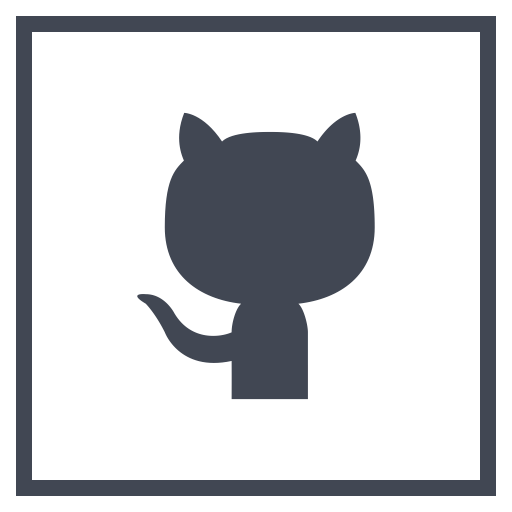
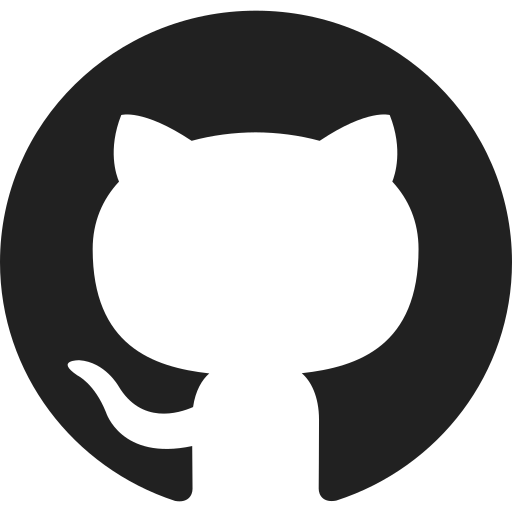
skills page added and modified

diff --git a/skills.html b/skills.html
@@ -1,0 +1,78 @@
+<!DOCTYPE html>
+<html lang="en">
+<head>
+    <meta charset="UTF-8">
+    <meta name="author" content="Babalwa Mbolekwa">
+    <meta name="viewport" content="width=device-width, initial-scale=1, maximum-scale=1, user-scalable=0"/>
+    <link rel="icon" href="IMAGES/b.png" type="image/ico">
+    <link rel="stylesheet" href="CSS/main.css">
+    <title>My Skills</title>
+</head>
+<body >
+    <header>
+        <div class="menu-btn">
+            <div class="btn-line"></div>
+            <div class="btn-line"></div>
+            <div class="btn-line"></div>
+        </div>
+        <nav class="menu">
+            <div class="menu-branding">
+                <div class="portrait">
+                    
+                </div>
+            </div>
+            <ul class="menu-nav">
+                <li class="nav-item">
+                    <a href="index.html" class="nav-link">Home</a>
+                </li>
+                <li class="nav-item">
+                    <a href="about.html" class="nav-link">About</a>
+                </li>
+                <li class="nav-item current">
+                    <a href="skills.html" class="nav-link">Skills</a>
+                </li>
+                <li class="nav-item">
+                    <a href="contact.html" class="nav-link">Contact me</a>
+                </li>
+            </ul>
+        </nav>
+    </header>
+    <main id="skills">
+        <h1 class="lg-heading">My <span class="text-secondary">Skills</span></h1>
+        <h2 class="sm-heading">I have acquired the following skills...</h2>
+        <div class="skills-info">
+            <div class="skills skills-1">
+                <h3 class="text-secondary">TECHNINAL SKILLS <br>_____________ </h3>
+                <div class="skills1-containter">
+                    <img class="html-icon" src="IMAGES/html5.png" alt="html icon">
+                    <img class="css-icon" src="IMAGES/css.png" alt="css icon">
+                    <img class="js-icon" src="IMAGES/javascript.png" alt="javascript icon">
+                    <img class="sql-icon" src="IMAGES/sql.png" alt="sql icon">
+                    <img class="linux-icon" src="IMAGES/linux.png" alt="linux icon">
+                    <img class="github-icon" src="IMAGES/github.png" alt="github icon">
+                    <img class="java-icon" src="IMAGES/java.png" alt="java icon">
+                    <img class="c-icon" src="IMAGES/c.png" alt="c icon">
+                </div>
+            </div>
+            <div class="skills skills-2">
+                <h3 class="text-secondary">PROFESSIONAL SKILLS <br>_____________</h3>
+                <div class="skills2-container">
+                    <p>Problem-Solving</p>
+                    <p>Teamwork</p>
+                    <p>Time Management</p>
+                    <p>Leadership</p>
+                    <p>Customer Service</p>
+                    <p>Creativity</p>
+                    <p>Communication</p>
+                    <p>Remote Work</p>
+                    
+                </div>
+            </div>
+        </div>
+    </main>
+    <footer id="main-footer">
+        Copyright &copy; 2020 | This website was created by Babalwa Mbolekwa
+    </footer>
+    <script src="JAVASCRIPT/main.js"></script>
+</body>
+</html>

diff --git a/CSS/main.css b/CSS/main.css
@@ -186,6 +186,43 @@ main {
   .about-info .umuzi-link img {
     width: 75%; }
 
+.skills-info {
+  margin-top: 5vh;
+  display: grid;
+  grid-gap: 60px;
+  grid-template-areas: 'skills1 skills2';
+  grid-template-columns: repeat(2, 1fr); }
+
+.skills-1 {
+  grid-area: skills1; }
+
+.skills-2 {
+  grid-area: skills2; }
+
+.skills {
+  background: #a39e9e;
+  padding: 1rem;
+  border-bottom: #643d42 5px solid;
+  text-align: center;
+  box-shadow: 0 0 0.5rem 0 #646060;
+  color: #2b2a2a;
+  border-radius: 5px;
+  margin-top: 2rem;
+  padding-bottom: 3rem; }
+  .skills .skills1-containter {
+    display: grid;
+    grid-template-columns: repeat(4, 1fr);
+    padding-left: 10%; }
+    .skills .skills1-containter img {
+      margin-top: 2rem;
+      width: 3.5rem; }
+  .skills .skills2-container {
+    display: grid;
+    grid-template-columns: repeat(2, 1fr); }
+    .skills .skills2-container p {
+      margin-top: 1rem;
+      font-weight: bold; }
+
 #main-footer {
   text-align: center;
   padding: 1rem;
@@ -228,6 +265,9 @@ main {
     width: 10%; }
   .about-info {
     grid-template-areas: 'bio-image' 'bio' 'job1' 'job2' 'job3';
+    grid-template-columns: 1fr; }
+  .skills-info {
+    grid-template-areas: 'skills1'  'skills2';
     grid-template-columns: 1fr; } }
 
 @media screen and (max-width: 500px) {
@@ -241,4 +281,10 @@ main {
   main#home .icons a img {
     width: 17%; }
   main#home .icons a {
-    padding-right: 2%; } }
+    padding-right: 2%; }
+  main#about h1 {
+    margin-top: 10vh;
+    font-size: 3.5rem; }
+  main#skills h1 {
+    margin-top: 10vh;
+    font-size: 3.5rem; } }

diff --git a/SCSS/main.scss b/SCSS/main.scss
@@ -126,6 +126,57 @@ main {
   }
 }
 
+//skills page styling
+.skills-info {
+  margin-top: 5vh;
+  display: grid;
+  grid-gap: 60px;
+  grid-template-areas: 
+  'skills1 skills2';
+  grid-template-columns: repeat(2, 1fr);
+}
+
+.skills-1 {
+  grid-area: skills1;
+}
+
+.skills-2 {
+  grid-area: skills2;
+}
+
+.skills {
+  background: rgb(163, 158, 158);
+  padding: 1rem;
+  border-bottom: $secondary-color 5px solid;
+  text-align: center;
+  box-shadow: 0 0 0.5rem 0 rgb(100, 96, 96);
+  color: rgb(43, 42, 42);
+  border-radius: 5px;
+  margin-top: 2rem;
+  padding-bottom: 3rem;
+
+  .skills1-containter {
+    display: grid;
+    grid-template-columns: repeat(4, 1fr);
+    padding-left: 10%;
+  
+    img {
+      margin-top: 2rem;
+      width: 3.5rem;
+    }
+  }
+
+  .skills2-container {
+    display: grid;
+    grid-template-columns: repeat(2, 1fr);
+    
+    p {
+      margin-top: 1rem;
+      font-weight: bold;
+    }
+  }
+}
+
 #main-footer {
   text-align: center;
   padding: 1rem;

diff --git a/index.html b/index.html
@@ -39,7 +39,7 @@
     </header>
     <main id="home">
         <h1 class="lg-heading">Babalwa <span class="text-secondary">Mbolekwa</span></h1>
-        <h2 class="sm-heading">Computer Systems Engineering Graduate, Web Developer & Programmer</h2>
+        <h2 class="sm-heading">Web Developer, Programmer & Tech Alchemist</h2>
         <div class="icons">
             <a href="https://www.linkedin.com/in/babalwa-mbolekwa-a16a94147/" target="_blank" title="LinkedIn link">
                 <img src="IMAGES/linkedIn1.png" alt="linkedIn icon" >
@@ -51,7 +51,7 @@
                 <img src="IMAGES/facebook3.png" alt="facebook icon">
             </a>
             <a href="https://github.com/Babalwa01" target="_blank" title="github link">
-                <img src="IMAGES/github.png" alt="github icon">
+                <img src="IMAGES/githubicon.png" alt="github icon">
             </a>
         </div>
     </main>

diff --git a/SCSS/_mobile.scss b/SCSS/_mobile.scss
@@ -64,6 +64,13 @@
 
         grid-template-columns: 1fr;
     }
+
+    .skills-info {
+        grid-template-areas: 
+        'skills1' 
+        'skills2';
+        grid-template-columns: 1fr;
+    }
 }
 
 //smartphones
@@ -88,5 +95,15 @@
 
     main#home .icons a{
         padding-right: 2%;
+    }
+
+    main#about h1 {
+        margin-top: 10vh;
+        font-size: 3.5rem;
+    }
+
+    main#skills h1 {
+        margin-top: 10vh;
+        font-size: 3.5rem;
     }
 }
